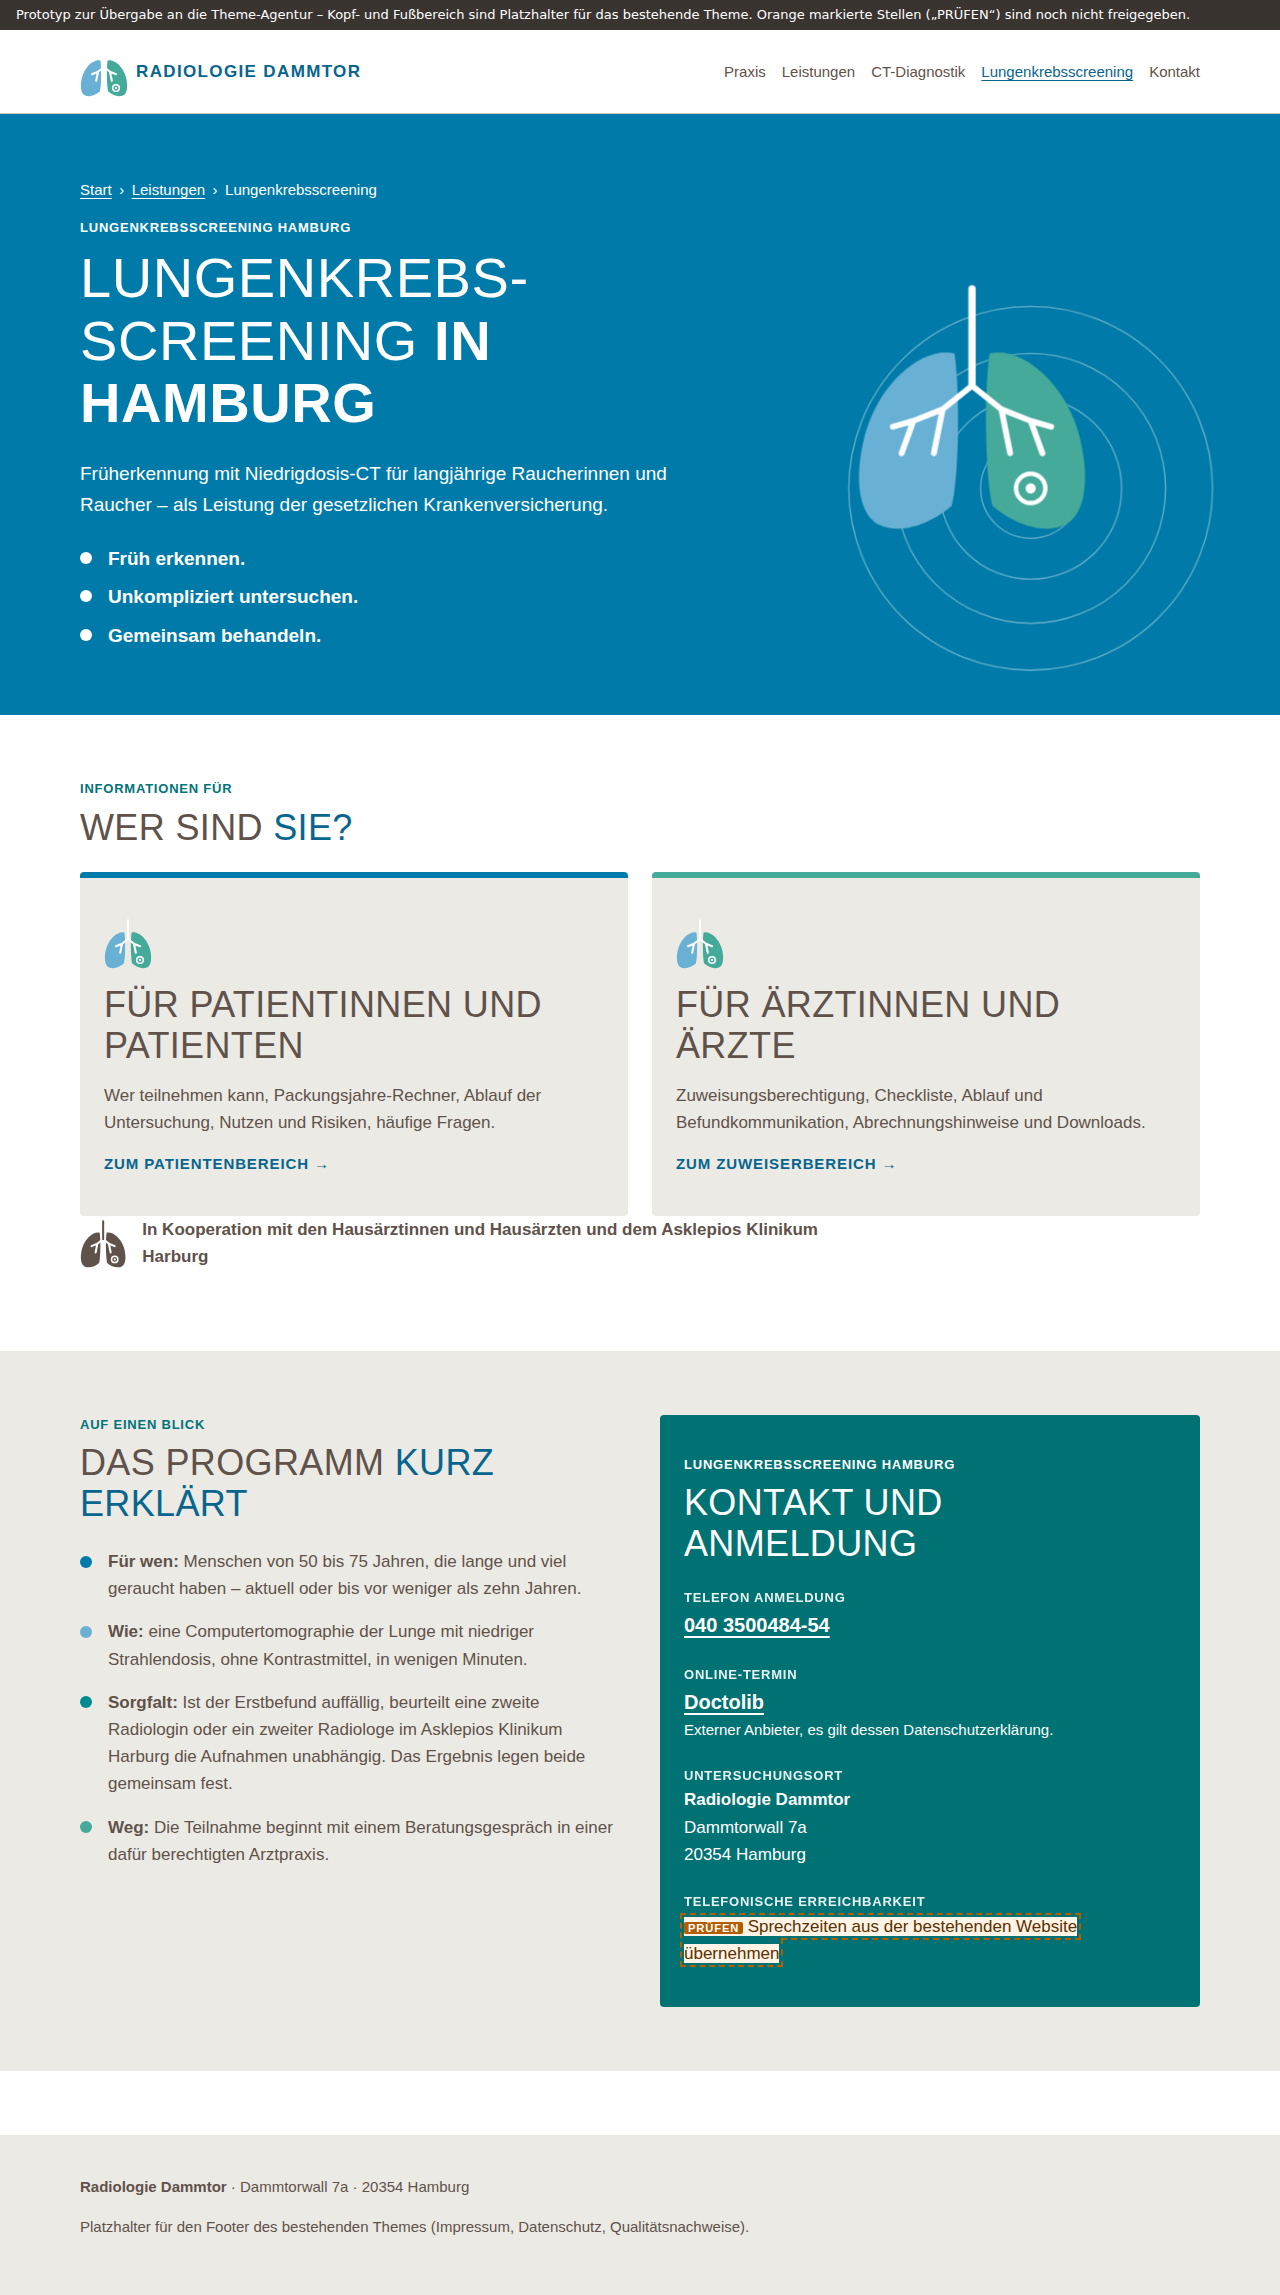
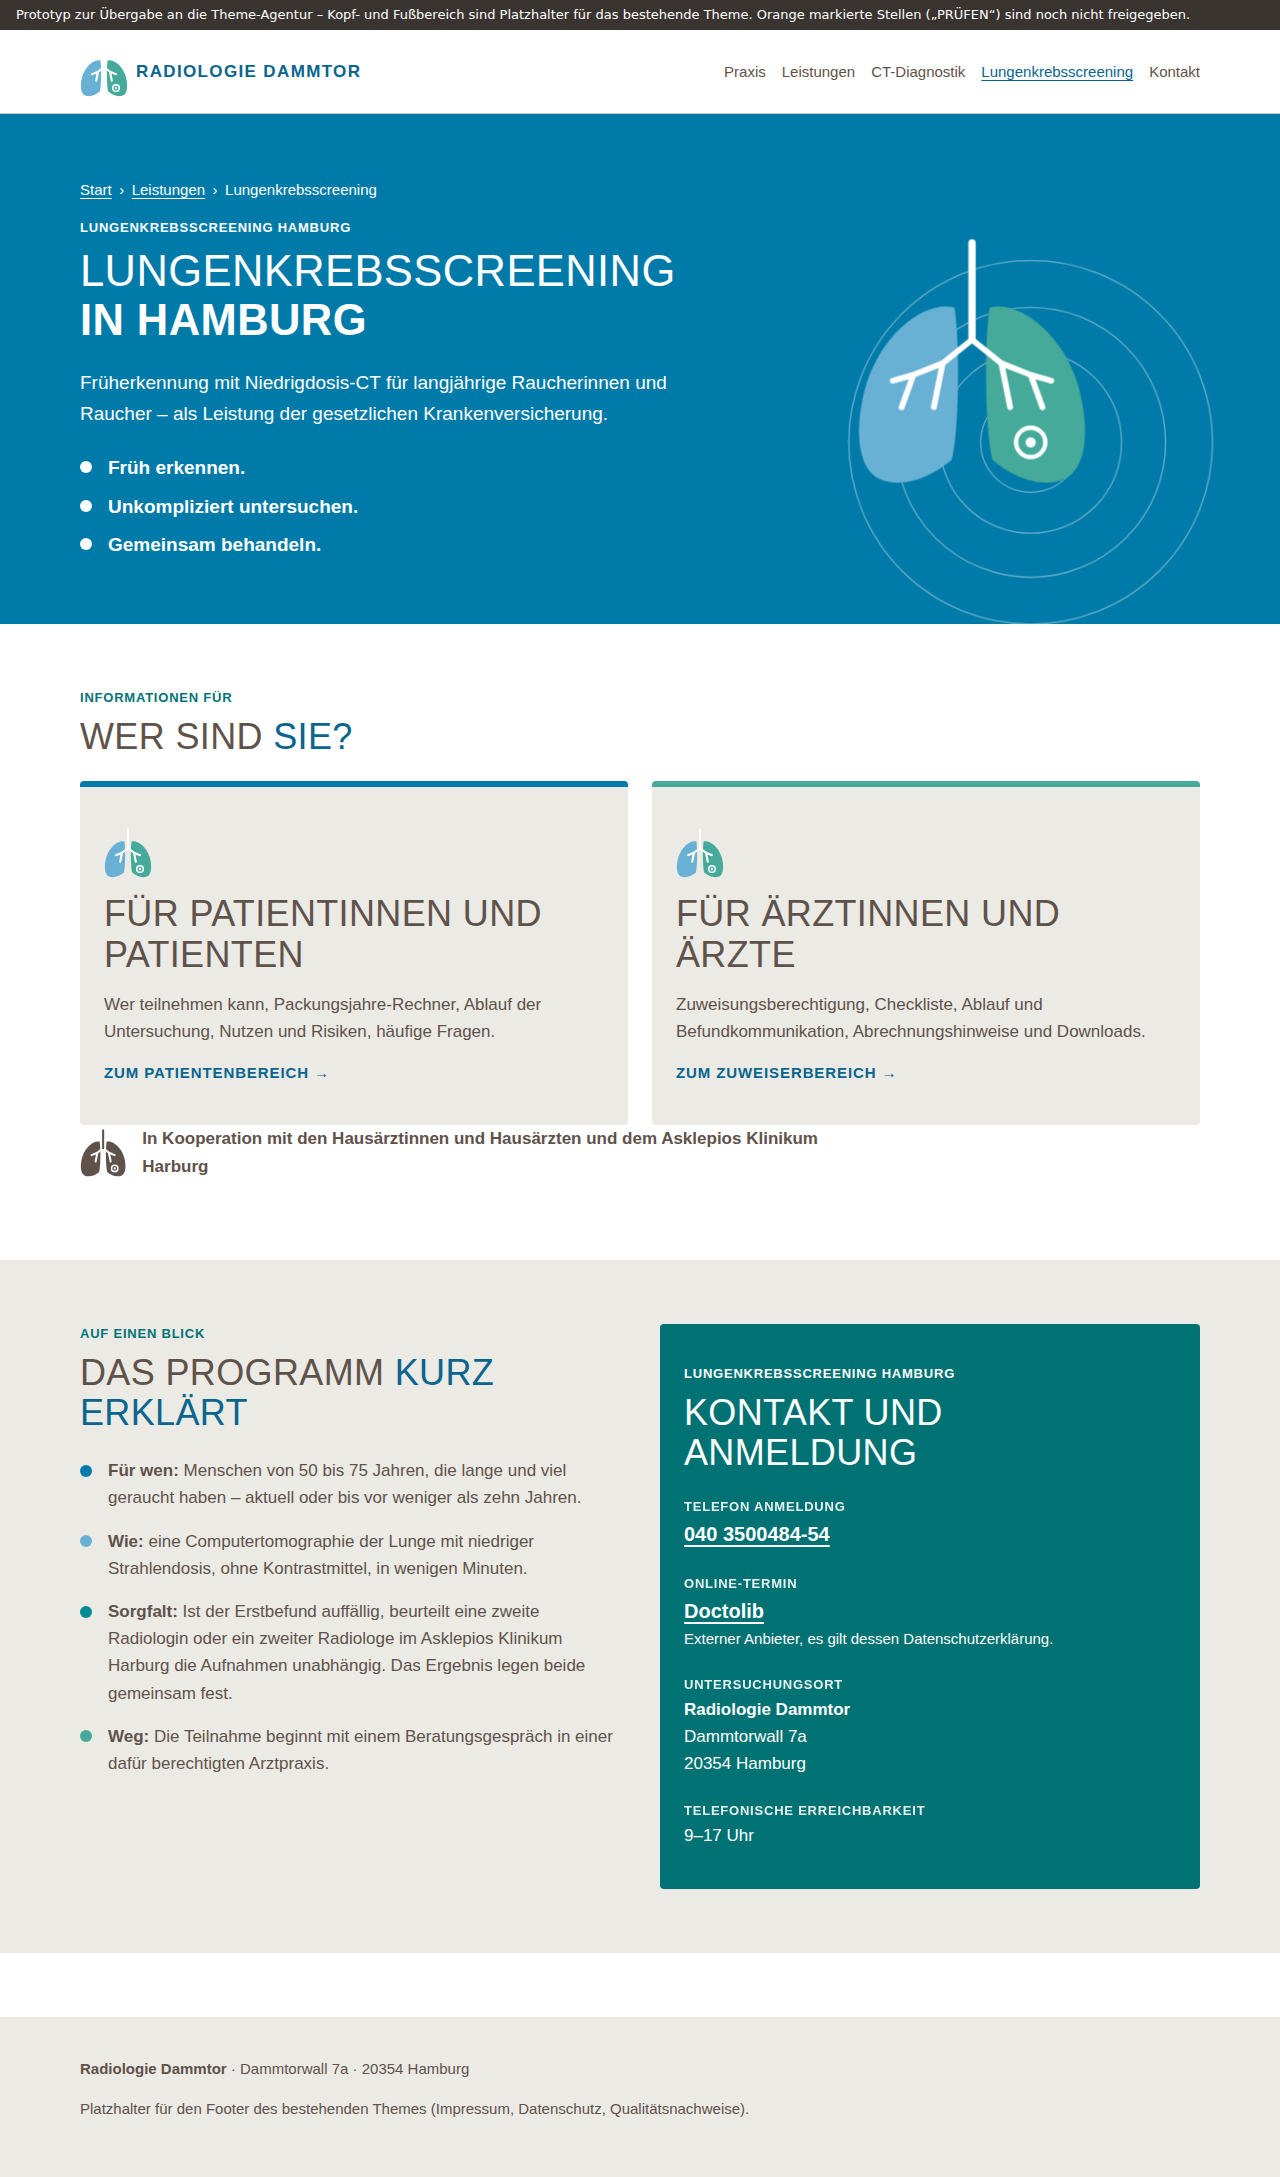
Hero-Überschriften ohne Silbentrennung; Überlauf bei 320 px behoben
- „Lungenkrebsscreening“ und „Zuweisende“ stehen jeweils in einer Zeile: kein bedingter Trennstrich mehr, Schriftgröße per Container-Query an die Spaltenbreite gekoppelt (geprüft 320–1600 px)
- Dokumentkarten, Abrechnungstabelle, Ablaufliste und Rechner laufen bei 320 px nicht mehr über

Claude-Session: https://claude.ai/code/session_0183uJYfvx4VrFFfDh8qP2LU

diff --git a/assets/css/lks.css b/assets/css/lks.css
@@ -551,3 +551,28 @@ body.lks { margin: 0; background: var(--lks-white); }
 .lks-doc__body p { margin-bottom: var(--lks-space-2); }
 .lks-doc__meta { font-size: var(--lks-fs-small); }
 .lks-doc .lks-actions { margin-top: var(--lks-space-3); }
+
+/* Hero-Headline: lange Wörter („Lungenkrebsscreening“, „Zuweisende“) nie trennen.
+   Die Schriftgröße richtet sich nach der Breite der Textspalte, sodass das längste
+   Wort auch bei 320 px in eine Zeile passt. */
+.lks-hero .lks-container > div:first-child { container-type: inline-size; min-width: 0; }
+.lks-hero .lks-h1 {
+  font-size: min(var(--lks-fs-h1), 6.8cqi); /* ca. 8 % Reserve für andere Schriftmetriken */
+  hyphens: none;
+  -webkit-hyphens: none;
+  overflow-wrap: normal;
+}
+/* sehr schmale Displays (320 px) */
+.lks-docs > *, .lks-doc > * { min-width: 0; }
+.lks-doc { grid-template-columns: minmax(0, 1fr); }
+@media (min-width: 36rem) { .lks-doc { grid-template-columns: 11rem minmax(0, 1fr); } }
+@media (max-width: 24rem) {
+  .lks-table { table-layout: fixed; }
+  .lks-table th:first-child, .lks-table td:first-child { width: 3.4rem; }
+  .lks-table th:last-child, .lks-table td:last-child { width: 5.6rem; }
+  .lks-table td { overflow-wrap: anywhere; }
+}
+.lks-swim__list li { grid-template-columns: auto minmax(0, 1fr); }
+.lks-calc { grid-template-columns: minmax(0, 1fr); }
+@media (min-width: 60rem) { .lks-calc { grid-template-columns: minmax(0, 1.1fr) minmax(0, 1fr); } }
+.lks-phase { grid-template-columns: repeat(auto-fit, minmax(min(7.5rem, 100%), 1fr)); }

diff --git a/public/assets/css/lks.css b/public/assets/css/lks.css
@@ -551,3 +551,28 @@ body.lks { margin: 0; background: var(--lks-white); }
 .lks-doc__body p { margin-bottom: var(--lks-space-2); }
 .lks-doc__meta { font-size: var(--lks-fs-small); }
 .lks-doc .lks-actions { margin-top: var(--lks-space-3); }
+
+/* Hero-Headline: lange Wörter („Lungenkrebsscreening“, „Zuweisende“) nie trennen.
+   Die Schriftgröße richtet sich nach der Breite der Textspalte, sodass das längste
+   Wort auch bei 320 px in eine Zeile passt. */
+.lks-hero .lks-container > div:first-child { container-type: inline-size; min-width: 0; }
+.lks-hero .lks-h1 {
+  font-size: min(var(--lks-fs-h1), 6.8cqi); /* ca. 8 % Reserve für andere Schriftmetriken */
+  hyphens: none;
+  -webkit-hyphens: none;
+  overflow-wrap: normal;
+}
+/* sehr schmale Displays (320 px) */
+.lks-docs > *, .lks-doc > * { min-width: 0; }
+.lks-doc { grid-template-columns: minmax(0, 1fr); }
+@media (min-width: 36rem) { .lks-doc { grid-template-columns: 11rem minmax(0, 1fr); } }
+@media (max-width: 24rem) {
+  .lks-table { table-layout: fixed; }
+  .lks-table th:first-child, .lks-table td:first-child { width: 3.4rem; }
+  .lks-table th:last-child, .lks-table td:last-child { width: 5.6rem; }
+  .lks-table td { overflow-wrap: anywhere; }
+}
+.lks-swim__list li { grid-template-columns: auto minmax(0, 1fr); }
+.lks-calc { grid-template-columns: minmax(0, 1fr); }
+@media (min-width: 60rem) { .lks-calc { grid-template-columns: minmax(0, 1.1fr) minmax(0, 1fr); } }
+.lks-phase { grid-template-columns: repeat(auto-fit, minmax(min(7.5rem, 100%), 1fr)); }

diff --git a/public/lungenkrebsscreening/patienten/index.html b/public/lungenkrebsscreening/patienten/index.html
@@ -79,7 +79,7 @@
       <div>
         <nav class="lks-breadcrumb" aria-label="Brotkrumen"><ol><li><a href="../../">Start</a></li><li><a href="../">Lungenkrebsscreening</a></li><li><span aria-current="page">Patientinnen und Patienten</span></li></ol></nav>
         <span class="lks-kicker">Für Patientinnen und Patienten</span>
-        <h1 class="lks-h1">Lungenkrebs&shy;screening <span class="lks-accent">in Hamburg</span></h1>
+        <h1 class="lks-h1">Lungenkrebsscreening <span class="lks-accent">in Hamburg</span></h1>
         <p class="lks-lead">Wenn Sie lange geraucht haben, kann eine Niedrigdosis-CT der Lunge helfen, Lungenkrebs in einem frühen Stadium zu erkennen. Hier erfahren Sie, wer teilnehmen kann und wie die Untersuchung abläuft.</p>
         <ul class="lks-claims">
           <li>Früh erkennen.</li>

diff --git a/src/pages/lungenkrebsscreening/patienten/index.html b/src/pages/lungenkrebsscreening/patienten/index.html
@@ -33,7 +33,7 @@
       <div>
         <nav class="lks-breadcrumb" aria-label="Brotkrumen"><ol><li><a href="../../">Start</a></li><li><a href="../">Lungenkrebsscreening</a></li><li><span aria-current="page">Patientinnen und Patienten</span></li></ol></nav>
         <span class="lks-kicker">Für Patientinnen und Patienten</span>
-        <h1 class="lks-h1">Lungenkrebs&shy;screening <span class="lks-accent">in Hamburg</span></h1>
+        <h1 class="lks-h1">Lungenkrebsscreening <span class="lks-accent">in Hamburg</span></h1>
         <p class="lks-lead">Wenn Sie lange geraucht haben, kann eine Niedrigdosis-CT der Lunge helfen, Lungenkrebs in einem frühen Stadium zu erkennen. Hier erfahren Sie, wer teilnehmen kann und wie die Untersuchung abläuft.</p>
         <ul class="lks-claims">
           <li>Früh erkennen.</li>

diff --git a/public/lungenkrebsscreening/zuweiser/index.html b/public/lungenkrebsscreening/zuweiser/index.html
@@ -78,7 +78,7 @@
       <div>
         <nav class="lks-breadcrumb" aria-label="Brotkrumen"><ol><li><a href="../../">Start</a></li><li><a href="../">Lungenkrebsscreening</a></li><li><span aria-current="page">Zuweisende Ärztinnen und Ärzte</span></li></ol></nav>
         <span class="lks-kicker">Für Ärztinnen und Ärzte</span>
-        <h1 class="lks-h1">Lungenkrebs&shy;screening für <span class="lks-accent">Zuweisende</span></h1>
+        <h1 class="lks-h1">Lungenkrebsscreening für <span class="lks-accent">Zuweisende</span></h1>
         <p class="lks-lead">Niedrigdosis-CT nach LuKrFrühErkV und KFE-RL – mit Zweitbefundung auffälliger Befunde im Asklepios Klinikum Harburg und strukturiertem Befund an Ihre Praxis.</p>
         <ul class="lks-claims">
           <li>Früh erkennen.</li>

diff --git a/src/pages/lungenkrebsscreening/zuweiser/index.html b/src/pages/lungenkrebsscreening/zuweiser/index.html
@@ -32,7 +32,7 @@
       <div>
         <nav class="lks-breadcrumb" aria-label="Brotkrumen"><ol><li><a href="../../">Start</a></li><li><a href="../">Lungenkrebsscreening</a></li><li><span aria-current="page">Zuweisende Ärztinnen und Ärzte</span></li></ol></nav>
         <span class="lks-kicker">Für Ärztinnen und Ärzte</span>
-        <h1 class="lks-h1">Lungenkrebs&shy;screening für <span class="lks-accent">Zuweisende</span></h1>
+        <h1 class="lks-h1">Lungenkrebsscreening für <span class="lks-accent">Zuweisende</span></h1>
         <p class="lks-lead">Niedrigdosis-CT nach LuKrFrühErkV und KFE-RL – mit Zweitbefundung auffälliger Befunde im Asklepios Klinikum Harburg und strukturiertem Befund an Ihre Praxis.</p>
         <ul class="lks-claims">
           <li>Früh erkennen.</li>

diff --git a/public/lungenkrebsscreening/index.html b/public/lungenkrebsscreening/index.html
@@ -82,7 +82,7 @@
       <div>
         <nav class="lks-breadcrumb" aria-label="Brotkrumen"><ol><li><a href="../">Start</a></li><li><a href="#">Leistungen</a></li><li><span aria-current="page">Lungenkrebsscreening</span></li></ol></nav>
         <span class="lks-kicker">Lungenkrebsscreening Hamburg</span>
-        <h1 class="lks-h1">Lungenkrebs&shy;screening <span class="lks-accent">in Hamburg</span></h1>
+        <h1 class="lks-h1">Lungenkrebsscreening <span class="lks-accent">in Hamburg</span></h1>
         <p class="lks-lead">Früherkennung mit Niedrigdosis-CT für langjährige Raucherinnen und Raucher – als Leistung der gesetzlichen Krankenversicherung.</p>
         <ul class="lks-claims">
           <li>Früh erkennen.</li>

diff --git a/src/pages/lungenkrebsscreening/index.html b/src/pages/lungenkrebsscreening/index.html
@@ -36,7 +36,7 @@
       <div>
         <nav class="lks-breadcrumb" aria-label="Brotkrumen"><ol><li><a href="../">Start</a></li><li><a href="#">Leistungen</a></li><li><span aria-current="page">Lungenkrebsscreening</span></li></ol></nav>
         <span class="lks-kicker">Lungenkrebsscreening Hamburg</span>
-        <h1 class="lks-h1">Lungenkrebs&shy;screening <span class="lks-accent">in Hamburg</span></h1>
+        <h1 class="lks-h1">Lungenkrebsscreening <span class="lks-accent">in Hamburg</span></h1>
         <p class="lks-lead">Früherkennung mit Niedrigdosis-CT für langjährige Raucherinnen und Raucher – als Leistung der gesetzlichen Krankenversicherung.</p>
         <ul class="lks-claims">
           <li>Früh erkennen.</li>

diff --git a/docs/QA.md b/docs/QA.md
@@ -35,7 +35,7 @@ Nach der Recherche-Überarbeitung erneut geprüft. Geprüft wurden alle vier Sei
 
 ## Mobil 360 px
 
-Kein horizontales Scrollen (`scrollWidth` = 360 auf allen Seiten). Die Timeline läuft vertikal, die Swimlane wird zur nummerierten Liste mit farbiger Bahnkennzeichnung.
+Kein horizontales Scrollen (`scrollWidth` = 360 auf allen Seiten, seit 05.10.2026 auch bei 320 px geprüft). Die Hero-Überschriften („Lungenkrebsscreening“, „Zuweisende“) werden nicht getrennt; ihre Schriftgröße passt sich der Spaltenbreite an (geprüft von 320 bis 1600 px). Die Timeline läuft vertikal, die Swimlane wird zur nummerierten Liste mit farbiger Bahnkennzeichnung.
 
 ## Druckansicht Checkliste
 
